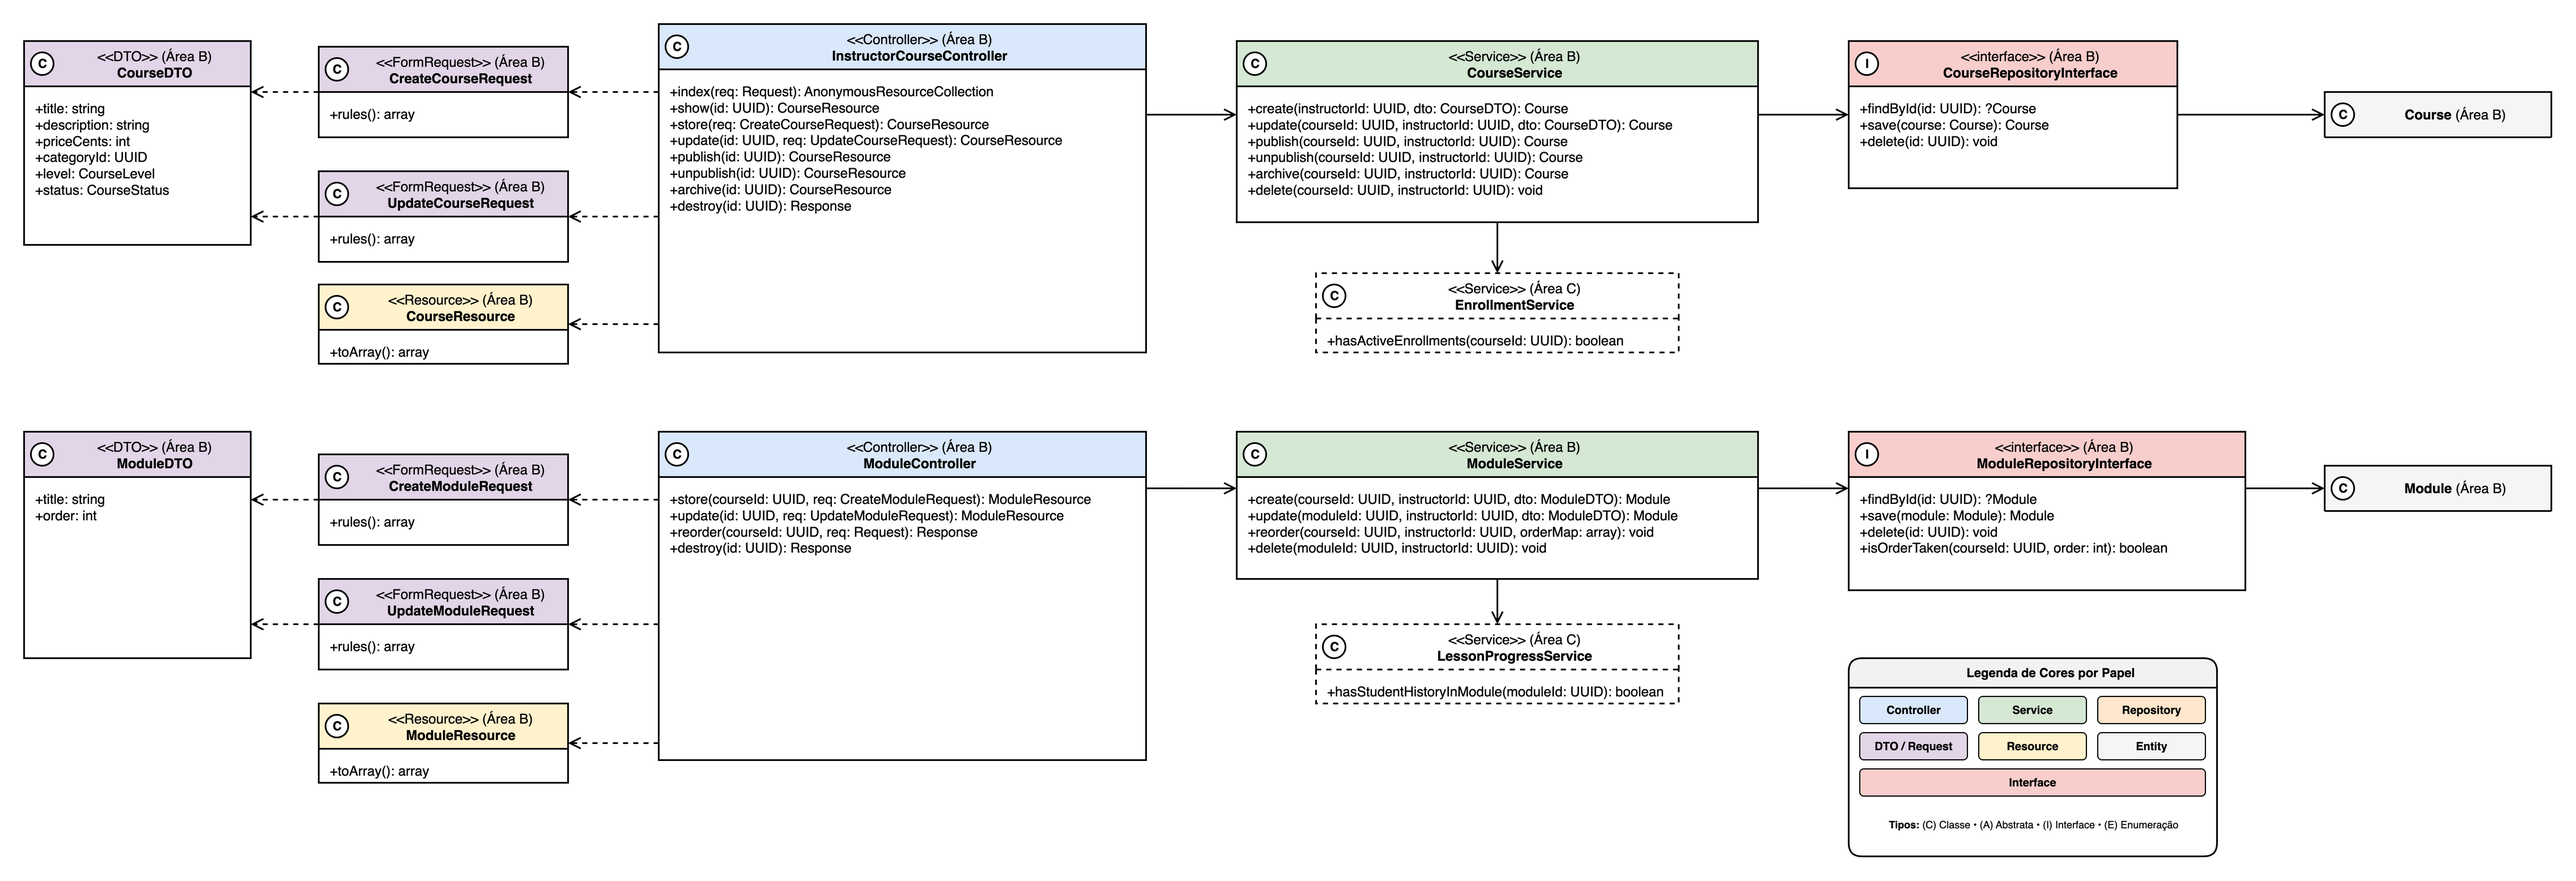
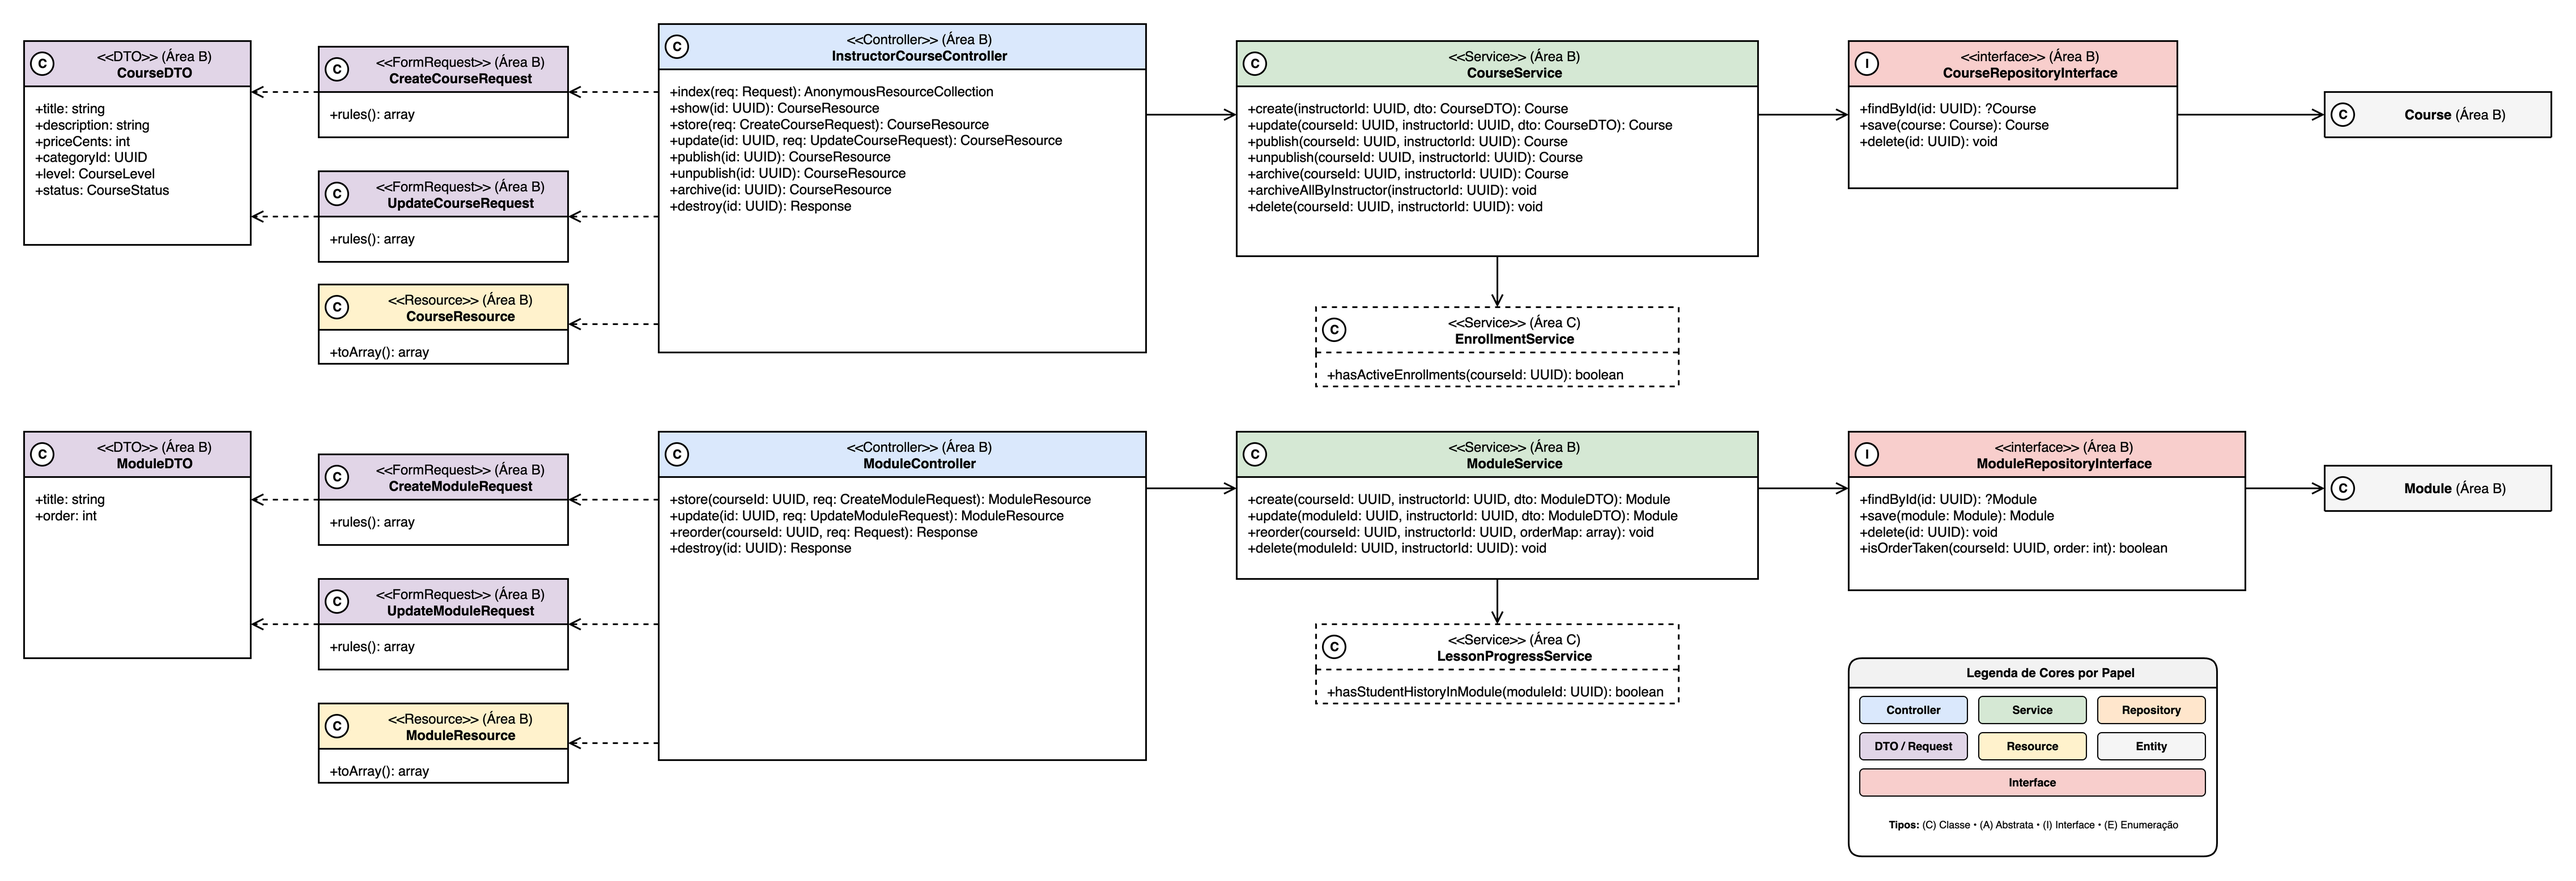
docs(diagrama-de-classes): add bulk course archive to CourseService
Area D needs to archive every course of an instructor in one step for
UC018, and the class diagram did not declare that operation, so the
implementation would have to touch the courses table from outside the
module. CourseService.archiveAllByInstructor(instructorId) puts the
operation in the owning service, keeping the per-course archive() from
UC006 A4 unchanged and leaving the table access inside area B.

(cherry picked from commit 54d9b5f86a666e7fd11a2618789420d114968c5a)

Changed region(s): [[0.4998, 0.3085, 0.6247, 0.4319], [0.4685, 0.1851, 0.5935, 0.2468]]

diff --git a/especificacao/13-diagrama-de-classes/area-b.md b/especificacao/13-diagrama-de-classes/area-b.md
@@ -5,7 +5,7 @@ Classes dos casos de uso UC004, UC006, UC014 e UC015 (RF002, RF003, RF004 e RF00
 Na perspectiva negocial, `Instructor` herda da classe base abstrata `User` (Área A) e mantém a relação de autoria com `Course`. Um `Course` categoriza-se via `Category` e compõe recursivamente sua árvore pedagógica através de `Module`, o qual compõe suas unidades de conteúdo `Lesson` e suas avaliações `Quiz`. Cada `Quiz` é composto por instâncias de `Question`, que por sua vez compõem suas alternativas em `QuestionOption`. As classes referenciam estritamente tipos fortes de domínio (`level: CourseLevel`, `status: CourseStatus`, `course: Course`, `module: Module`), em total conformidade com as diretrizes do TE5_1, banindo referências a IDs escalares de chaves estrangeiras nos atributos de domínio.
 
 Nas perspectivas de implementação, os controladores REST recebem requisições HTTP mapeadas nos endpoints do TDD (seção 3.3), validadas por Form Requests dedicados (`CreateCourseRequest`, `UpdateCourseRequest`, `CreateModuleRequest`, `UpdateModuleRequest`, `CreateLessonRequest`, `UpdateLessonRequest`, `AddLessonMaterialRequest`, `CreateQuizRequest`, `UpdateQuizRequest`) que encapsulam regras de validação e convertem entradas em DTOs imutáveis (`CourseDTO`, `ModuleDTO`, `LessonDTO`, `LessonMaterialDTO`, `StoredFileDTO`, `QuizDTO`, `QuestionDTO`, `QuestionOptionDTO`). Todas as exceções de negócio e validação seguem o padrão unificado `ApiException(code: ErrorCode, httpStatus, fields)`, definido na Área A (item 13), com os códigos de erro da tabela do TDD (seção 3.1). Os controladores (`InstructorCourseController`, `ModuleController`, `InstructorLessonController`, `InstructorQuizController`) delegam a lógica de negócio aos serviços de domínio (`CourseService`, `ModuleService`, `LessonService`, `QuizAuthoringService`), que orquestram as operações e aplicam as travas de integridade:
-- `CourseService.delete()` consulta `EnrollmentService.hasActiveEnrollments()` (Área C) e bloqueia a remoção de cursos com matrículas ativas (UC006 R-2). Os cursos suportam os estados de ciclo de vida definidos em `CourseStatus` (`DRAFT`, `PUBLISHED`, `ARCHIVED`), além de exclusão lógica via `deleted_at` (ADR-0014). `CourseService.archive()` (UC006 A4) retira o curso publicado do catálogo sem bloquear os alunos já matriculados.
+- `CourseService.delete()` consulta `EnrollmentService.hasActiveEnrollments()` (Área C) e bloqueia a remoção de cursos com matrículas ativas (UC006 R-2). Os cursos suportam os estados de ciclo de vida definidos em `CourseStatus` (`DRAFT`, `PUBLISHED`, `ARCHIVED`), além de exclusão lógica via `deleted_at` (ADR-0014). `CourseService.archive()` (UC006 A4) retira o curso publicado do catálogo sem bloquear os alunos já matriculados. `CourseService.archiveAllByInstructor(instructorId)` arquiva em lote todos os cursos de um Instrutor, sem alterar a tabela `courses` por fora; é usado pela Área D no UC018.
 - `ModuleService.delete()` consulta `LessonProgressService.hasStudentHistoryInModule()` (Área C) antes de autorizar a exclusão, bloqueando a remoção de módulos com progresso em aulas ou respostas a quizzes (UC014 R-4).
 - `LessonService.delete()` consulta `LessonProgressService.hasStudentProgress()` (Área C), impedindo a exclusão de aulas assistidas (UC015 R-5). Em caso de exclusão autorizada, a aula e seus materiais recebem `deleted_at`; os arquivos de vídeo e de materiais permanecem no Cloudflare R2, sem remoção física (ADR-0014).
 - `LessonService.uploadVideo()` realiza o envio direto do vídeo à API multipart (`media-service`), armazenando o arquivo via `MediaStorageInterface.uploadFile()` e retornando os metadados do arquivo (`StoredFileDTO`). A chave do vídeo (`videoKey`) é obrigatória na criação da aula (`LessonService.create()`), disparando o job assíncrono de transcrição e indexação via `TranscriptionQueueInterface` (RNF004).
